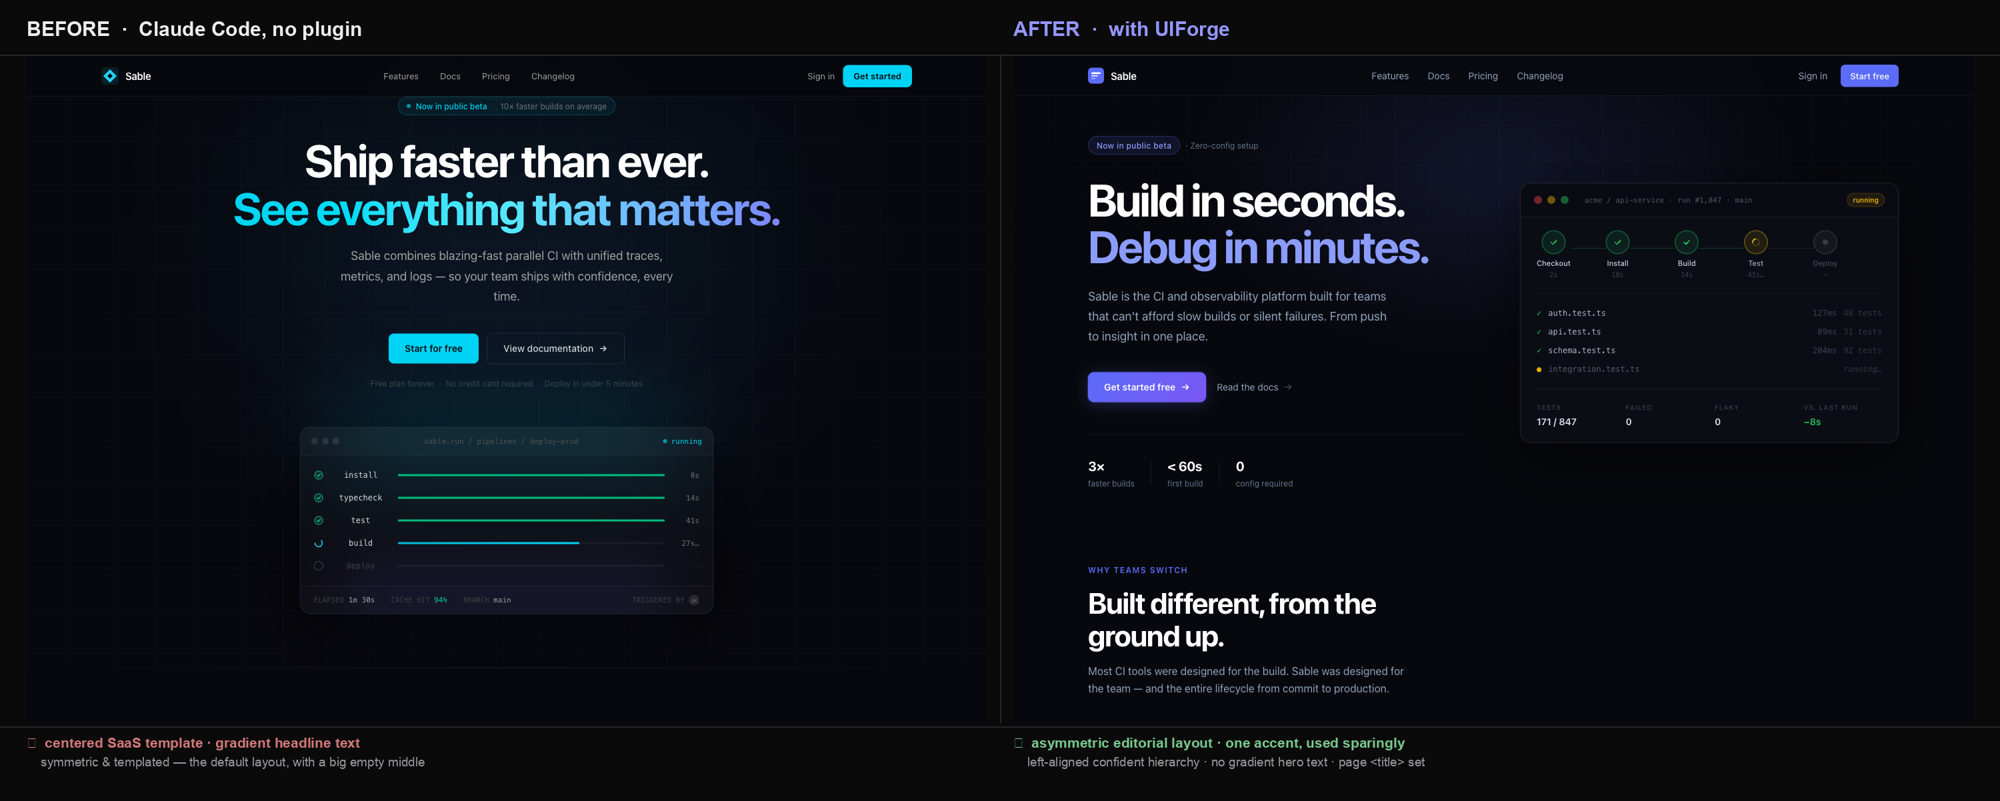
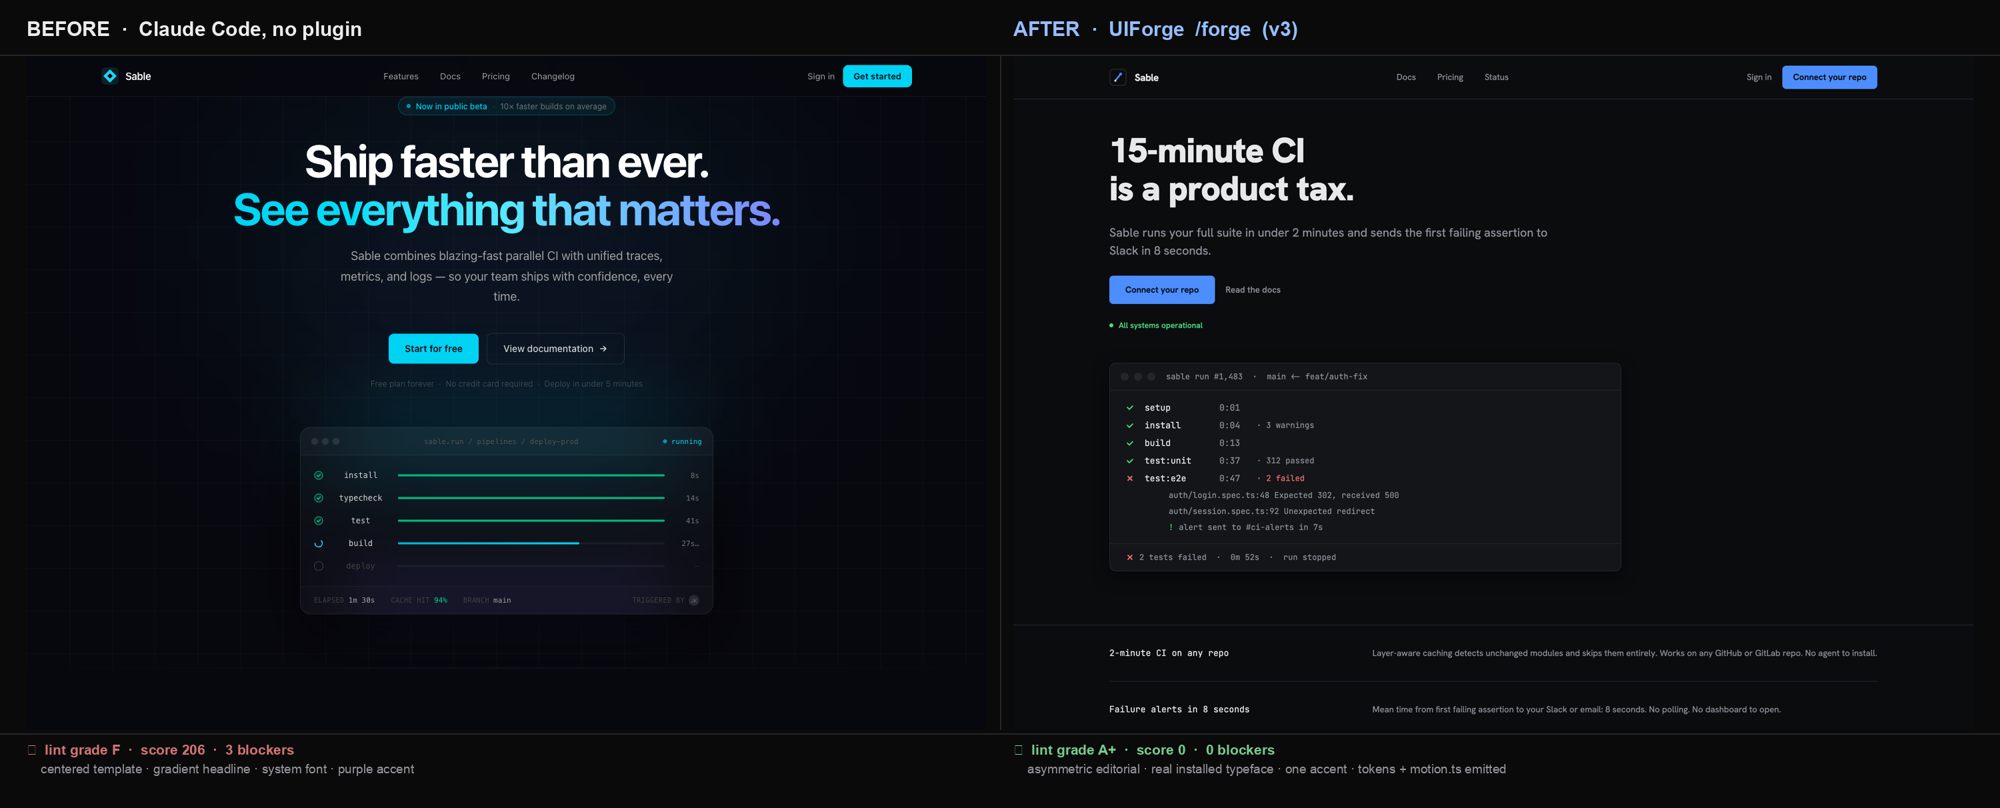
docs: v3.4 final proof — F -> A+ (the full v3 stack, measured)
Re-ran the isolated A/B with the whole v3 stack, the UIForge side invoked
via /uiforge:forge (the enforcement loop). Result, graded by the shipped
linter:
  before (no plugin, plain prompt):  lint F   score 206  3 blockers
  after  (UIForge /forge):           lint A+  score 0    0 blockers
The loop genuinely fired: picked the 'precise' kit, INSTALLED a real face
(Hanken Grotesk, not system-ui), emitted tokens.css + motion.ts, ran the
linter --strict repeatedly and fixed until 0, added a reduced-motion
path, and broke the centered template into an asymmetric editorial layout
with checkable copy. Build passes.

Swap docs/before-after.png for the F->A+ comparison and rewrite the
README proof (EN/KO) to the linter-measured result. Passes validate
--strict.

diff --git a/README.md b/README.md
@@ -54,20 +54,21 @@
 
 ## Proof
 
-Same prompt, same model, same starter — **the only variable is the plugin** (two
-isolated headless Claude Code runs, `--setting-sources project` ± the plugin, so
-nothing else can help either side).
+Same brief, same model, same starter — the only variable is the plugin. Two
+isolated headless Claude Code runs (`--setting-sources project`, so no other
+skill can help either side); the **before** is a plain prompt with no plugin, the
+**after** uses UIForge via `/uiforge:forge` (its enforcement loop). Both graded by
+the shipped linter (`tools/uiforge-lint.mjs`).
 
-<p align="center"><img src="./docs/before-after.png" width="900" alt="Before/after: no plugin vs UIForge — UIForge breaks the centered SaaS template into an asymmetric editorial layout with a solid headline and one restrained accent"></p>
-<p align="center"><em>Building the same landing top (nav + hero + features). Without the plugin: the centered SaaS template — gradient headline text, everything symmetric, a big empty middle. With UIForge: an asymmetric, editorial layout — left-aligned confident hierarchy, one restrained accent, a solid (not gradient) headline, and the page <code>&lt;title&gt;</code> set.</em></p>
+<p align="center"><img src="./docs/before-after.png" width="900" alt="Before/after: no plugin (lint grade F, 3 blockers, centered template) vs UIForge /forge (lint grade A+, 0 blockers, asymmetric editorial with a real installed typeface)"></p>
+<p align="center"><em>Building the same landing top (nav + hero + features). <b>Before</b> (no plugin): the centered SaaS template — gradient headline text, a system font, an indigo accent, a big empty middle → <b>lint grade F (score 206, 3 blockers)</b>. <b>After</b> (UIForge /forge): an asymmetric editorial layout with a real <b>installed</b> typeface (Hanken Grotesk), one restrained accent, a solid headline, an emitted <code>tokens.css</code> + <code>motion.ts</code>, and a reduced-motion path → <b>lint grade A+ (score 0, 0 blockers)</b>.</em></p>
 
-The plugin's largest, most visible effect is on the axis hardest to fix by
-prompting — **layout & hierarchy**: it breaks the centered template, drops the
-gradient headline (gradient uses **14 → 5**), and commits to a point of view. Why
-it matters: the **aesthetic-usability effect** (Kurosu & Kashimura, 1995) shows a
-beautiful interface is *perceived* as more usable and earns more trust. (An
-earlier motion-only run measured the same discipline on the animation layer:
-[the experiment](https://github.com/TaewoooPark/UIForge#proof) is reproducible.)
+The difference is not a nicer prompt — it's the **Gate**: UIForge emits a design
+signature as tokens, sources a real face from a kit, then **loops** (build → lint
+→ fix) until the linter exits 0, and an adversary given only the pixels can't
+prove a machine made it. Why it matters: the **aesthetic-usability effect**
+(Kurosu & Kashimura, 1995) shows a beautiful interface is *perceived* as more
+usable and earns more trust. Reproduce it: `node tools/uiforge-lint.mjs <dir>`.
 
 ## The forge
 

diff --git a/README.ko.md b/README.ko.md
@@ -44,16 +44,19 @@
 
 ## 증거 (Proof)
 
-같은 프롬프트·같은 모델·같은 스타터 — **유일한 변수는 플러그인**(격리된 헤드리스 2회 실행,
-`--setting-sources project` ± 플러그인 — 다른 어떤 것도 양쪽을 돕지 못하게).
+같은 브리프·모델·스타터 — 유일한 변수는 플러그인. 격리된 헤드리스 2회 실행
+(`--setting-sources project` — 다른 스킬이 양쪽을 돕지 못하게). **before**는 플러그인 없이
+평범한 프롬프트, **after**는 UIForge를 `/uiforge:forge`(강제 루프)로 사용. 둘 다 내장 린터
+(`tools/uiforge-lint.mjs`)로 채점.
 
-<p align="center"><img src="./docs/before-after.png" width="900" alt="플러그인 없음 vs UIForge — UIForge는 중앙정렬 SaaS 템플릿을 깨고 비대칭 에디토리얼 레이아웃·단색 헤드라인·절제된 액센트 하나로"></p>
-<p align="center"><em>같은 랜딩 상단(nav + hero + features) 제작. 없음: 중앙정렬 SaaS 템플릿 — 그라디언트 헤드라인·전부 대칭·큰 빈 여백. UIForge: 비대칭 에디토리얼 레이아웃 — 좌측 정렬 위계·절제된 액센트 하나·단색(그라디언트 아님) 헤드라인·페이지 <code>&lt;title&gt;</code> 설정.</em></p>
+<p align="center"><img src="./docs/before-after.png" width="900" alt="플러그인 없음(lint F, blocker 3, 중앙 템플릿) vs UIForge /forge(lint A+, blocker 0, 실제 설치 서체의 비대칭 에디토리얼)"></p>
+<p align="center"><em>같은 랜딩 상단(nav + hero + features) 제작. <b>Before</b>(플러그인 없음): 중앙정렬 SaaS 템플릿 — 그라디언트 헤드라인·시스템 폰트·인디고 액센트·큰 빈 여백 → <b>lint 등급 F (score 206, blocker 3)</b>. <b>After</b>(UIForge /forge): 실제 <b>설치한</b> 서체(Hanken Grotesk)의 비대칭 에디토리얼 레이아웃·절제된 액센트 하나·단색 헤드라인·<code>tokens.css</code>+<code>motion.ts</code> 방출·reduced-motion 경로 → <b>lint 등급 A+ (score 0, blocker 0)</b>.</em></p>
 
-플러그인의 가장 크고 눈에 띄는 효과는 **프롬프트로 고치기 가장 어려운 축 — 레이아웃과
-위계**다: 중앙정렬 템플릿을 깨고, 그라디언트 헤드라인을 버리고(그라디언트 사용 **14 → 5**),
-관점 하나에 커밋한다. 왜 중요한가: **aesthetic-usability effect**(Kurosu & Kashimura,
-1995) — 아름다운 UI는 더 쓰기 쉽다고 *인식*되고 더 큰 신뢰를 얻는다.
+차이는 더 나은 프롬프트가 아니라 **게이트**다: UIForge는 디자인 서명을 토큰으로 방출하고,
+키트에서 실제 서체를 조달한 뒤, 린터가 0으로 끝날 때까지 **반복**(build → lint → fix)하고,
+픽셀만 받은 적대자가 "기계가 만들었다"를 증명하지 못한다. 왜 중요한가:
+**aesthetic-usability effect**(Kurosu & Kashimura, 1995) — 아름다운 UI는 더 쓰기 쉽다고
+*인식*되고 더 큰 신뢰를 얻는다. 재현: `node tools/uiforge-lint.mjs <dir>`.
 
 ## 포지(forge) 파이프라인
 